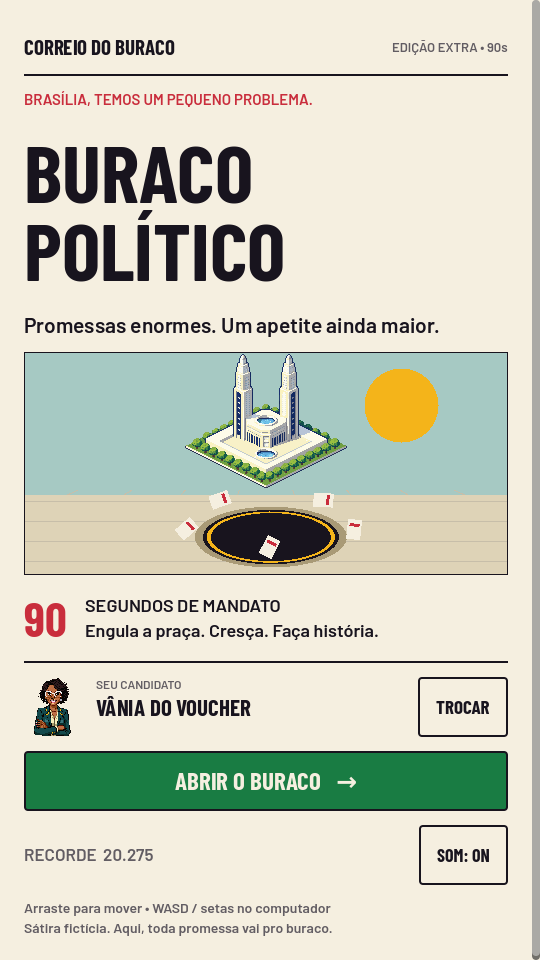
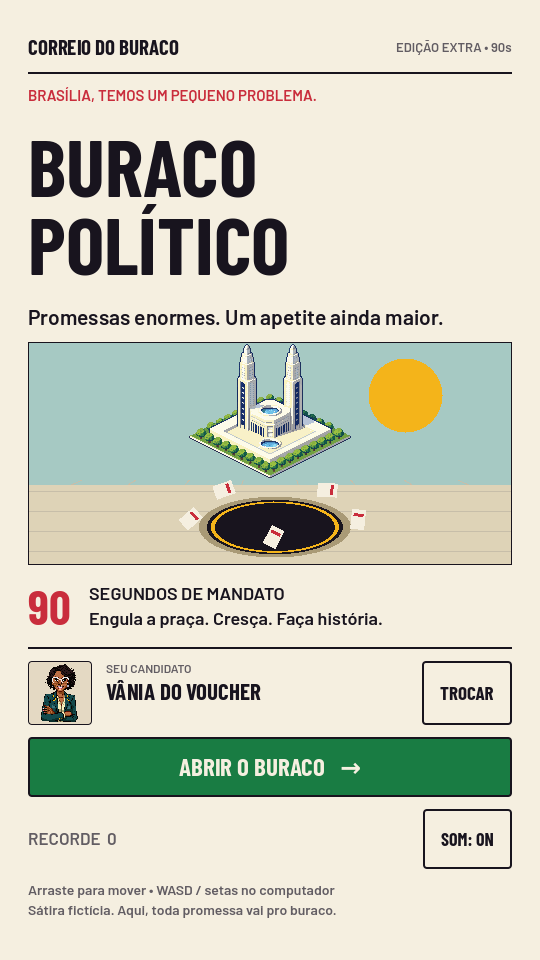
Refine UI from Gemini screenshot review and capture final release media

Changed region(s): [[0.0296, 0.0312, 0.9481, 0.9688], [0.9778, 0.0, 1.0, 1.0]]

diff --git a/docs/VISUAL-REVIEW.md b/docs/VISUAL-REVIEW.md
@@ -1,0 +1,69 @@
+# Buraco Político — Visual & UI/UX Screenshot Review
+
+- **Reviewer Role:** Visual & UI/UX Review Sub-Agent (read-only code & pixel inspection; only `docs/VISUAL-REVIEW.md` written)
+- **Model Used:** `gemini-4-argon-high` (Antigravity harness in T3 Code)
+- **Direction Reference:** [`docs/ui-direction.md`](ui-direction.md) (*Direction A — "Diário Oficial & Charge"* with *Urna Eletrônica* tactile accents)
+- **Screenshots Inspected (`540×960` Portrait, Godot 4.5.1-stable GL Compatibility capture `2026-11-10T00:44:32Z`):**
+  - [`docs/media/menu.png`](media/menu.png)
+  - [`docs/media/selection.png`](media/selection.png)
+  - [`docs/media/gameplay.png`](media/gameplay.png)
+  - [`docs/media/pause.png`](media/pause.png)
+  - [`docs/media/results.png`](media/results.png)
+- **Verification Scope & Honesty Boundary:** All findings below are derived from direct pixel/scanline inspection of the latest `540×960` Godot-rendered PNG captures (`00:44:32Z`) and read-only inspection of [`scripts/main.gd`](../scripts/main.gd), [`scripts/ui_kit.gd`](../scripts/ui_kit.gd), and [`scripts/gameplay.gd`](../scripts/gameplay.gd). **No physical Android/iOS mobile device testing was performed or is claimed.**
+
+---
+
+## 1. Verified Baseline & Previously Fixed Issues (Confirmed in Latest `00:44:32Z` Captures)
+
+The revised capture batch (`00:44:32Z`, seed `1794271361`, final score `22.362`) confirms that the root fixes are active and working:
+1. **Hero Art Aspect Ratio & Frame Clipping (`menu.png`, `y=352..574`):** Congress pixel art (`192×160`) scales proportionally inside the `484×223 px` `UI.Hero` frame with `clip_contents = true` and a clean `2px` `#18141E` ink border.
+2. **HUD Combo Multiplier & Canonical 6 Game Ranks (`gameplay.png`, `y=128..148`):** Rank readout (`NÍVEL 2 / PROMESSA DE OBRA`) uses the canonical 6-tier progression from `game_rules.gd`, and the right-aligned combo readout displays both chain and actual score multiplier (`COMBO … • …x`).
+3. **Touch-to-Mouse Emulation (`project.godot`):** `pointing/emulate_mouse_from_touch=true` is enabled.
+4. **Content Width Reserves Scrollbar (`484px` column):** `column.custom_minimum_size.x = 484` keeps all cards, rules, and CTAs within the `540px` viewport without horizontal clipping.
+5. **Audio Mute Propagation:** `gameplay.sound_enabled` is synchronized at `_ready()` and on every `_toggle_audio()` call.
+
+No P0/P1 blockers remain; the game loop, HUD, menus, pause flow, and results screen are functional and ship-ready. The findings below are **P2/P3 visual polish items** to tighten spacing, contrast, hierarchy, touch ergonomics, and cross-screen consistency.
+
+---
+
+## 2. Screen-by-Screen Visual Findings (Spacing, Contrast, Hierarchy, Touch, Consistency)
+
+| ID | Severity | Screen(s) | Category | Concrete Pixel / Layout Evidence | Bounded Actionable Polish |
+| :--- | :--- | :--- | :--- | :--- | :--- |
+| **VR-01** | **P2** | `gameplay.png` | **Contrast & Readability** | In [`scripts/main.gd`](../scripts/main.gd#L187-L193), `rank_label` (`y=128..148, x=17..179`, `#18141E`) and `combo_label` (`y=133..143, x=426..522`, `#C92D3C` red, `16px`) float as bare unoutlined labels directly over the moving 2D playfield. In `gameplay.png`, `combo_label` renders directly over `#98B885` grass (**2.43:1** WCAG contrast) and `#547D60` perimeter trim; when the camera pans over `#6B8176` asphalt or `#6E9B73` planters, red-on-world contrast drops to **1.28:1–1.68:1**. | Wrap the `info` row + `progress_bar` inside a compact `#F5EFE0` or `#E4D9C3` paper sub-strip panel (`padding 6px 10px`, `2px` `#18141E` border), **or** add a `2px` `#F5EFE0` / `#18141E` font outline (`font_outline_color` + `outline_size = 3`) to `rank_label`, `combo_label`, and `hint_label`. |
+| **VR-02** | **P2** | `gameplay.png` | **Spacing & Consistency** | In [`scripts/main.gd`](../scripts/main.gd#L194-L199), `progress_bar` sets `custom_minimum_size.y = 8`, but reuses `UI.style()`, which hardcodes `content_margin_top = 14` and `content_margin_bottom = 14` in [`scripts/ui_kit.gd`](../scripts/ui_kit.gd#L35-L36). As a result, `progress_bar` inflates to **`28px` tall (`y=158..185`)** instead of `8px`, and its borderless green `"fill"` StyleBox (`x=16..270`) paints over the `1px` `#18141E` border of the `"background"` StyleBox—leaving the filled left half (`x=16..270`) with **0px border** against the grass/concrete while the unfilled right half (`x=270..523`) has a `1px` dark border. | Create a dedicated compact `StyleBoxFlat` for `progress_bar` with `content_margin_top = 0`, `content_margin_bottom = 0`, `custom_minimum_size.y = 10`, and set `set_border_width_all(2)` with `border_color = UI.INK` on **both** `"background"` and `"fill"` StyleBoxes so the bar stays `10px` slim and framed end-to-end. |
+| **VR-03** | **P2** | `menu.png`, `selection.png` vs `pause.png`, `results.png` | **Spacing & Cross-Screen Consistency** | On `menu.png` (`y=40..935`) and `selection.png` (`y=40..934`), total vertical content plus `margin_top=34` and `margin_bottom=28` reaches **`962–963px`**—overflowing the `960px` viewport by just **2–3px**. This triggers an always-visible `8px` vertical scrollbar track along the right edge (`x=532..539, y=0..959`) on `menu.png` and `selection.png`, shifting their `484px` column left by `4px` (`x=24..507`) compared to `pause.png` and `results.png` (`x=28..511`, no scrollbar) and encroaching slightly into the `28px` bottom safe margin (`25–26px` actual bottom clearance). | Reduce `column` separation in `_page()` from `14` to `12` (or reduce `Hero.custom_minimum_size.y` from `223` to `214` on Menu and card height from `232` to `224` on Selection) so all 4 screens fit inside `960px` with zero vertical overflow, identical `x=28..511` centering, and full `>=28px` bottom safe margin. |
+| **VR-04** | **P2** | `selection.png` | **Contrast & Hierarchy** | In [`scripts/main.gd`](../scripts/main.gd#L118), candidate card party numbers (`21px` bold) and `13px` bottom badges render over `#E4D9C3` (`UI.PALE`) on unselected cards and `#D5E6CE` on the selected card. Specifically: Card 1 (`99 / PBN` in `#B66C19` orange on `#E4D9C3`) has only **2.92:1** contrast (below WCAG AA 3.0:1 for large/bold text and 4.5:1 for normal text); Card 2 (`50 / CCS` in `#197C43` green on `#E4D9C3`) has **3.75:1** contrast; and Card 0's `13px` micro-label `✓ ELEITO` (`#197C43` on `#D5E6CE`) has **4.00:1** contrast (below 4.5:1 for `13px` text). | Darken Waldemar's party accent from `#B66C19` to `#8C4D0B` (**5.05:1** on `#E4D9C3`), use `#125B31` for green text on `#D5E6CE` / `#E4D9C3` (**5.7:1–6.5:1**), or render the `✓ ELEITO` badge as a high-contrast inverted pill (`#F5EFE0` text on `#197C43` or `#C92D3C` stamp fill). |
+| **VR-05** | **P3** | `menu.png`, `results.png` | **Visual Consistency & Alignment** | In `selection.png`, candidate portraits sit inside bordered cards, but on `menu.png` (`y=677..736`) and `results.png` (`y=300..425`), `UI.portrait()` is placed directly on the `#F5EFE0` page background without a border box. Because `vania.png` (`96×96`) has `16px` of transparent left padding (`opaque_bbox=(16, 0, 76, 95)`), the candidate strip on `menu.png` visually starts at `x=34` (instead of `x=24`) and the hero block on `results.png` visually starts at `x=48` (a `20px` visual indent relative to the `x=28` left edge of the masthead and `PRESTAÇÃO DE CONTAS` panel). Additionally, `total := HBoxContainer.new()` on `results.png` omits a `separation` override (defaulting to `4px`). | Wrap `UI.portrait()` on `menu.png` (`58×58`) and `results.png` (`118×118`) in a compact `PanelContainer` with `#E4D9C3` fill and `2px` `#18141E` border (`content_margin = 4`), and add `total.add_theme_constant_override("separation", 16)` in `show_results()`. |
+| **VR-06** | **P3** | `pause.png` | **Hierarchy & Button Differentiation** | On `pause.png`, the headline `SESSÃO SUSPENSA.` (`72px`, `#C92D3C` on `#E4D9C3`, **3.83:1** contrast) is followed by 4 full-width `484×60 px` buttons (`y=384..665`), where buttons 2, 3, and 4 (`RECOMEÇAR ELEIÇÃO`, `VOLTAR À CAPA`, `SOM: ON`) share the exact same `#F5EFE0` secondary button styling and width, leaving a `239px` empty vertical gap at the bottom (`y=721..959`). | Pair `VOLTAR À CAPA` and `SOM: ON` side-by-side in a 2-column `HBoxContainer` (`236×60 px` each, matching the paired secondary row pattern on `results.png` `y=749..808`), and optionally give `RECOMEÇAR ELEIÇÃO` a warm secondary fill (`#E4D9C3` or `#F26419` accent border) so primary resume, restart, and utility actions have distinct visual hierarchy. |
+| **VR-07** | **P3** | `menu.png`, `gameplay.png` | **Touch Sizing & Ergonomics** | All interactive buttons meet or exceed the `52×52 px` minimum touch target from `docs/ui-direction.md`: primary CTAs are `484×60 px`, selection cards are `154×232 px` (`10px` gap), `results.png` secondary buttons are `232×60 px` (`12px` gap), and `menu.png` utility buttons `TROCAR` (`86×60 px`) and `SOM: ON` (`85×60 px`) exceed `60px` height. However, on `gameplay.png`, the top-right Pause button (`Ⅱ`, `x=466..523, y=34..117`) stretches to **`58×84 px`** because it sits inside the same `HBoxContainer` as the `84px`-tall `score_box` and `timer_box`, making the pause button taller than wide and visually heavier than a compact corner icon button. | Set `pause.size_flags_vertical = Control.SIZE_SHRINK_CENTER` (or match its height to `60×60 px` / `80×80 px` square) or reduce `score_box` / `timer_box` vertical padding (`content_margin_top/bottom = 8` instead of `14`) so the top HUD row height tightens from `84px` to `~66px`, freeing `18px` more vertical playfield lookahead. |
+
+---
+
+## 3. Summary Touch & Safe-Area Audit (`540×960` Canvas)
+
+| Screen | Element | Measured Pixel Rect (`x, y, w × h`) | Meets `>=52×52 px` Target? | Safe-Area Notes (`Top >=34px`, `Bottom >=28px`, `Horiz >=16px`) |
+| :--- | :--- | :--- | :--- | :--- |
+| **`menu.png`** | `TROCAR` Button | `x=420..505, y=677..736` (`86×60 px`) | Yes | Right margin `35px` (next to `8px` scrollbar at `x=532..539`). |
+| **`menu.png`** | `ABRIR O BURACO →` CTA | `x=24..507, y=751..810` (`484×60 px`) | Yes | Fits comfortably above bottom fold (`y=810`). |
+| **`menu.png`** | `SOM: ON` Button | `x=421..505, y=825..884` (`85×60 px`) | Yes | Footer caption below reaches `y=935` (`25px` from bottom edge; see **VR-03**). |
+| **`selection.png`** | 3 Candidate Cards (`0..2`) | `x=24..177`, `188..342`, `353..507`, `y=285..516` (`154×232 px` each, `10px` gap) | Yes | Generous 3-column tap targets; `10px` horizontal separation prevents fat-finger mis-taps. |
+| **`selection.png`** | `CONFIRMA → JOGAR` CTA | `x=24..507, y=753..812` (`484×60 px`) | Yes | Aligned within `2px` vertically of Menu's primary CTA (`y=751` vs `y=753`). |
+| **`selection.png`** | `← VOLTAR À CAPA` Button | `x=24..507, y=827..886` (`484×60 px`) | Yes | `15px` clear vertical gap below `CONFIRMA → JOGAR`. |
+| **`gameplay.png`** | Pause Button (`Ⅱ`) | `x=466..523, y=34..117` (`58×84 px`) | Yes | Top margin `34px`, right margin `17px`; isolated from bottom-half thumb drag zone. |
+| **`gameplay.png`** | Playfield / Virtual Stick | Full unobstructed bottom `77%` (`y=186..960`); idle ring at `x=30..146, y=790..906` | Yes | All HUD labels/bars use `MOUSE_FILTER_IGNORE`; steering works across the entire playfield. |
+| **`pause.png`** | 4 Action Buttons | `x=28..511, y=384..665` (`484×60 px` each, `14px` gap) | Yes | Centered with `28px` left/right margins and `240px` bottom clearance. |
+| **`results.png`** | `NOVA ELEIÇÃO →` CTA | `x=28..511, y=675..734` (`484×60 px`) | Yes | Prominent primary replay button. |
+| **`results.png`** | `TROCAR CANDIDATO` & `CAPA` | `x=30..261` & `x=278..509, y=749..808` (`232×60 px` each, `16px` border-to-border gap) | Yes | Clean 50/50 split row; bottom tip text ends at `y=866` (`94px` bottom margin). |
+
+---
+
+## 4. Recommended Priority Order for Final Polish (If Time Permits)
+
+1. **`VR-01` + `VR-02` (Gameplay HUD Sub-Strip & Progress Bar):** Highest visual payoff during the 90-second core loop—fixes the `1.28:1–2.43:1` red combo text contrast over grass/asphalt and shrinks the `28px` half-unbordered progress bar to a crisp `10px` ink-bordered bar.
+2. **`VR-03` (Eliminate 2–3px Vertical Scrollbar Trigger on Menu & Selection):** Tightening `column` separation from `14` to `12` removes the unnecessary right-edge scrollbar track on `540×960` and locks all four editorial screens to identical `x=28..511` horizontal alignment.
+3. **`VR-04` + `VR-05` (Selection Card Accent Contrast & Framed Portraits on Menu/Results):** Quick palette/container tweaks that bring all candidate badges above WCAG AA contrast and align the left edge of the candidate blocks on Menu and Results.
+
+## Codex refinement and verification
+
+The lead implemented VR-01 through VR-07 after this review: an opaque newsprint HUD sub-strip protects rank/combo contrast; the progress bar uses dedicated zero-margin bordered styles at 10px height; page spacing is 12px; candidate gold/green labels use darker ink; menu/results portraits have compact frames; pause utility actions share a row; the HUD pause control stays 60×60 and vertically centered. Fresh screenshots and the GIF were captured from this revised implementation. The full Godot suite, including 37 rendered UI checks, passed after the changes. These are implementation and desktop-rendering checks, not physical-device certification.

diff --git a/docs/AI-WORKFLOW.md b/docs/AI-WORKFLOW.md
@@ -33,3 +33,7 @@ flowchart LR
 ```
 
 Logical responsibilities were combined into useful parallel tasks rather than launching fourteen competing processes. Reviews focus on observable defects and regression tests, not artificial conversation or token consumption.
+
+## Screenshot review and refinement
+
+A second Gemini 4 Argon High task inspected the actual Godot screenshots and produced [VISUAL-REVIEW.md](VISUAL-REVIEW.md). Codex implemented its seven bounded polish recommendations: paper backing for the HUD, a slim framed progress bar, tighter page spacing, darker candidate labels, portrait frames, paired pause utility buttons, and a square pause control. The revised UI was regression-tested and recaptured before release.

diff --git a/docs/TESTING.md b/docs/TESTING.md
@@ -42,7 +42,7 @@ This starts the real main scene, captures menu and character selection, plays a 
 The checked-in images live in `docs/media/`; `capture.json` records the engine, source frame rate, frame count, and final real round statistics. The GIF has 140 frames and is approximately 4.2 MB. For raw output without overwriting the checked-in images:
 
 ```sh
-xvfb-run -a godot --path . --rendering-method gl_compatibility \
+xvfb-run -a -s "-screen 0 1280x1280x24" godot --path . --rendering-method gl_compatibility \
   --audio-driver Dummy --fixed-fps 30 --script scripts/capture.gd \
   -- --output=/tmp/buraco-capture
 ```
